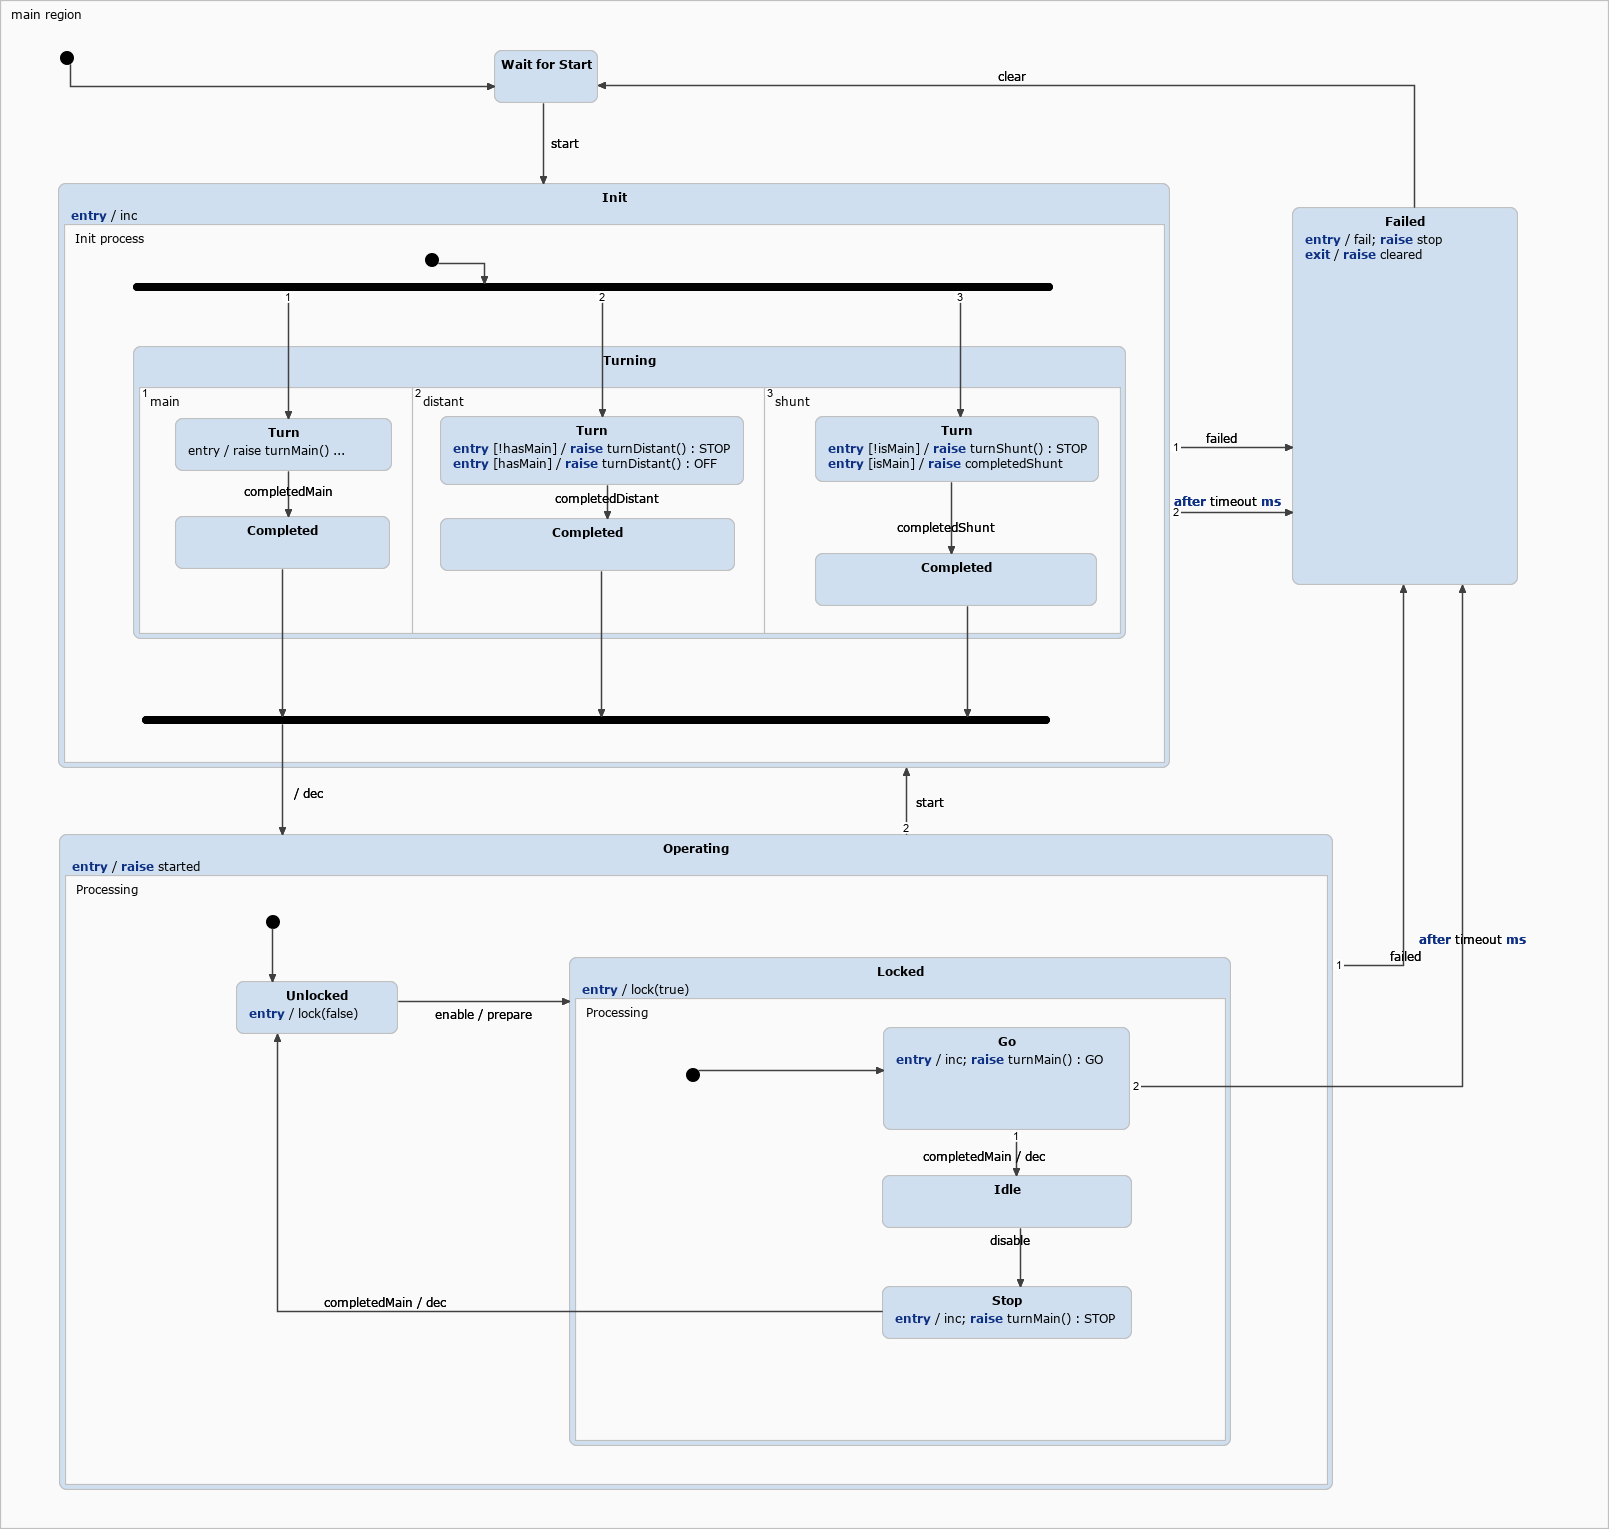
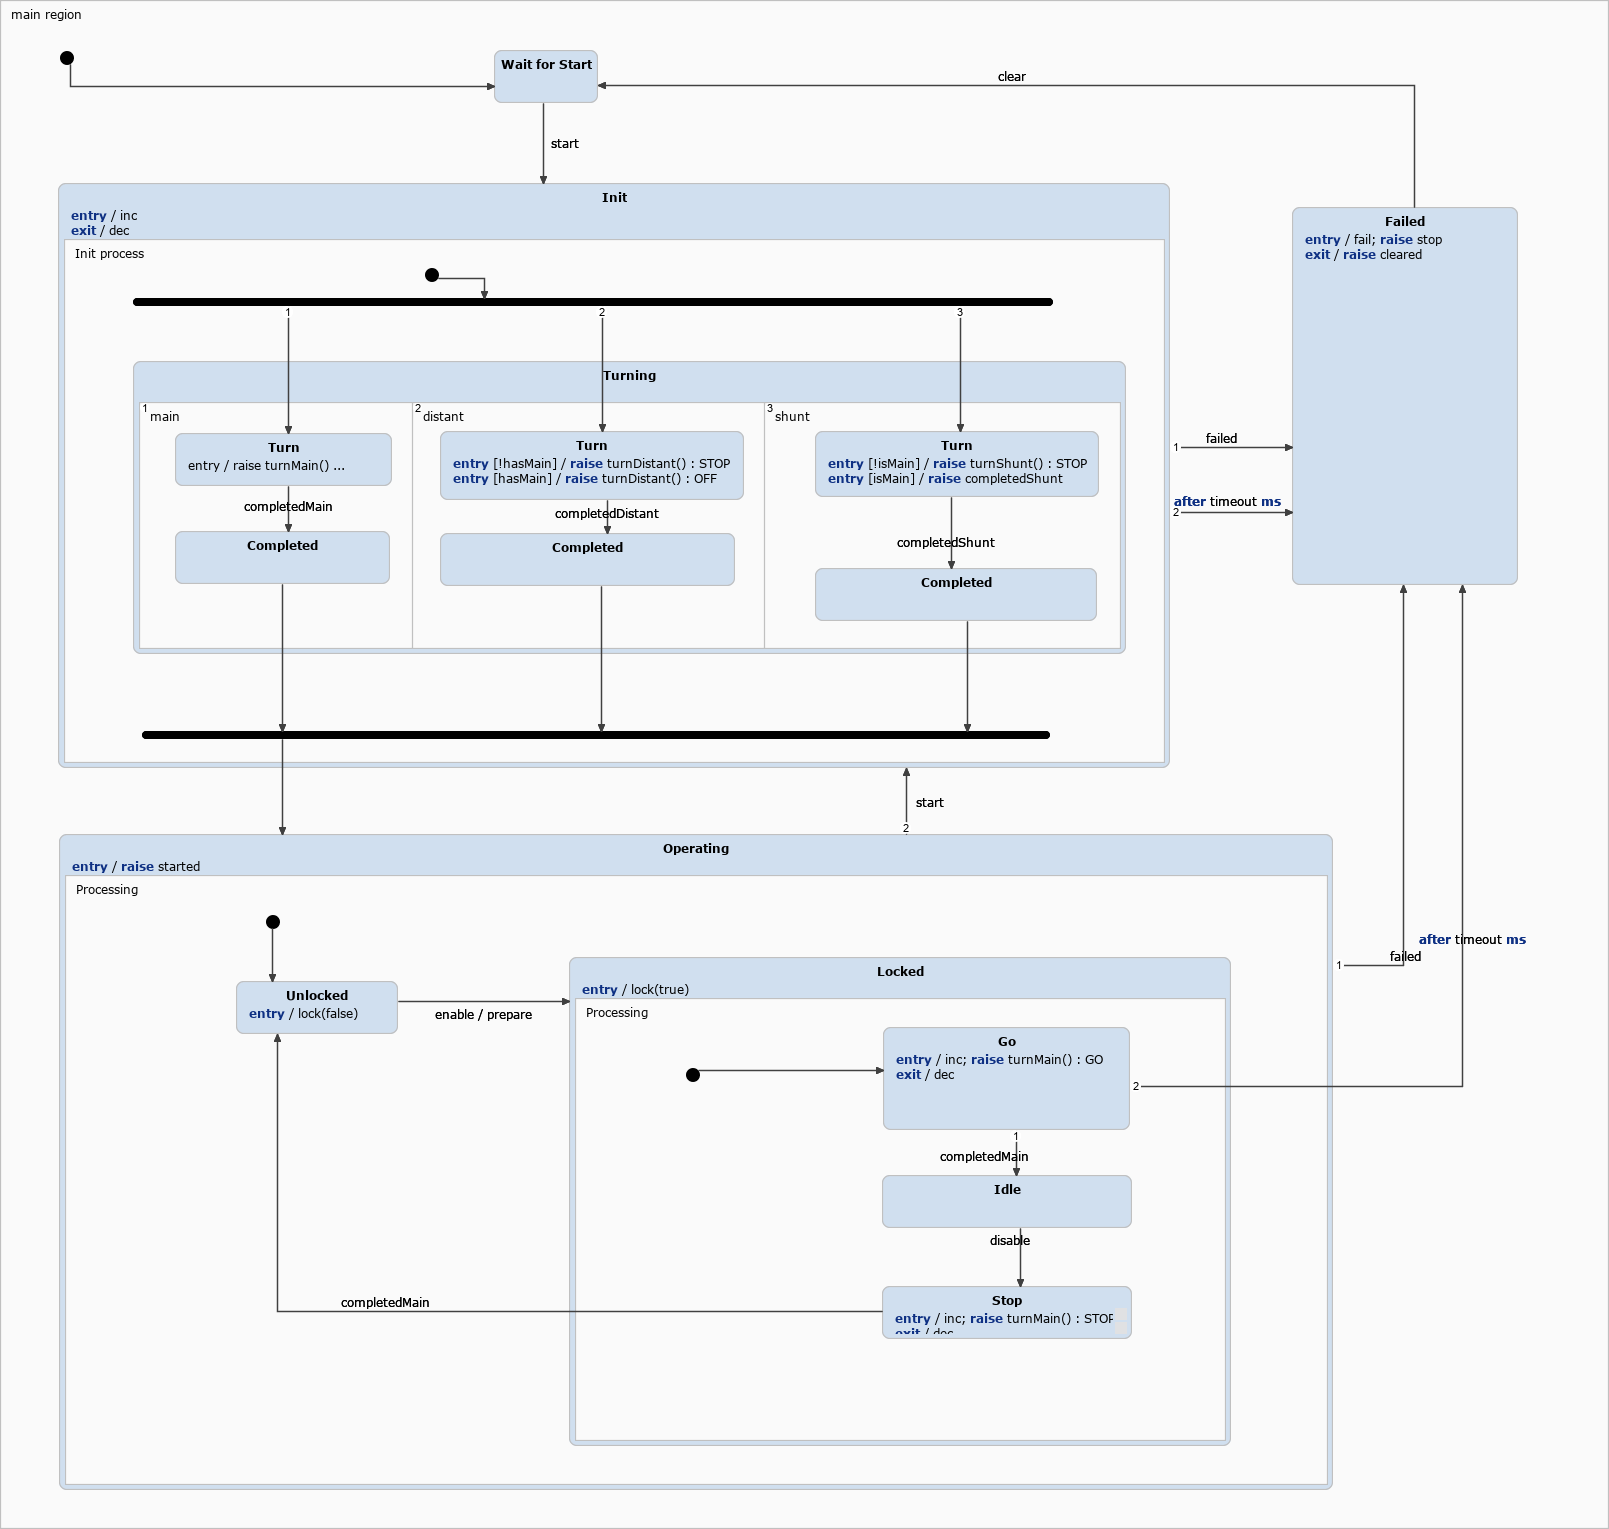
Reorganized transaction handling.

diff --git a/statecharts/SignalControllerStatechart.cpp b/statecharts/SignalControllerStatechart.cpp
@@ -488,6 +488,7 @@ namespace mrw
 		{
 			/* Exit action for state 'Init'. */
 			timerService->unsetTimer(this, 0);
+			ifaceOperationCallback->dec();
 		}
 
 		/* Exit action for state 'Go'. */
@@ -495,6 +496,14 @@ namespace mrw
 		{
 			/* Exit action for state 'Go'. */
 			timerService->unsetTimer(this, 1);
+			ifaceOperationCallback->dec();
+		}
+
+		/* Exit action for state 'Stop'. */
+		void SignalControllerStatechart::exact_main_region_Operating_Processing_Locked_Processing_Stop()
+		{
+			/* Exit action for state 'Stop'. */
+			ifaceOperationCallback->dec();
 		}
 
 		/* Exit action for state 'Failed'. */
@@ -789,6 +798,7 @@ namespace mrw
 			/* Default exit sequence for state Stop */
 			stateConfVector[0] = mrw::statechart::SignalControllerStatechart::State::NO_STATE;
 			stateConfVectorPosition = 0;
+			exact_main_region_Operating_Processing_Locked_Processing_Stop();
 		}
 
 		/* Default exit sequence for state Failed */
@@ -1118,7 +1128,6 @@ namespace mrw
 		{
 			/* The reactions of state null. */
 			exseq_main_region_Init();
-			ifaceOperationCallback->dec();
 			enseq_main_region_Operating_default();
 			react(0);
 		}
@@ -1385,7 +1394,6 @@ namespace mrw
 				if (completedMain_raised)
 				{
 					exseq_main_region_Operating_Processing_Locked_Processing_Go();
-					ifaceOperationCallback->dec();
 					enseq_main_region_Operating_Processing_Locked_Processing_Idle_default();
 					main_region_Operating_Processing_Locked_react(0);
 					transitioned_after = 0;
@@ -1441,7 +1449,6 @@ namespace mrw
 				if (completedMain_raised)
 				{
 					exseq_main_region_Operating_Processing_Locked();
-					ifaceOperationCallback->dec();
 					enseq_main_region_Operating_Processing_Unlocked_default();
 					main_region_Operating_react(0);
 					transitioned_after = 0;

diff --git a/statecharts/SectionStatechart.cpp b/statecharts/SectionStatechart.cpp
@@ -497,6 +497,7 @@ namespace mrw
 		{
 			/* Exit action for state 'Waiting'. */
 			timerService->unsetTimer(this, 1);
+			ifaceOperationCallback->dec();
 		}
 
 		/* Exit action for state 'Enabling'. */
@@ -1508,7 +1509,6 @@ namespace mrw
 				if (relaisResponse_raised)
 				{
 					exseq_main_region_Operating_Processing_Locked_Route_active_Waiting();
-					ifaceOperationCallback->dec();
 					emit left();
 					react_main_region_Operating_Processing_Locked_Route_active__choice_0();
 					transitioned_after = 0;
@@ -1531,7 +1531,6 @@ namespace mrw
 				if (relaisResponse_raised)
 				{
 					exseq_main_region_Operating_Processing_Locked();
-					ifaceOperationCallback->dec();
 					enseq_main_region_Operating_Processing_Unlocked_default();
 					main_region_Operating_react(0);
 					transitioned_after = 0;
@@ -1554,7 +1553,6 @@ namespace mrw
 				if (relaisResponse_raised)
 				{
 					exseq_main_region_Operating_Processing_Locked_Route_active_Waiting();
-					ifaceOperationCallback->dec();
 					enseq_main_region_Operating_Processing_Locked_Route_active_Enabled_default();
 					main_region_Operating_Processing_Locked_react(0);
 					transitioned_after = 0;

diff --git a/statecharts/SignalControllerStatechart.h b/statecharts/SignalControllerStatechart.h
@@ -309,6 +309,7 @@ namespace mrw
 			void enact_main_region_Failed();
 			void exact_main_region_Init();
 			void exact_main_region_Operating_Processing_Locked_Processing_Go();
+			void exact_main_region_Operating_Processing_Locked_Processing_Stop();
 			void exact_main_region_Failed();
 			void enseq_main_region_Wait_for_Start_default();
 			void enseq_main_region_Init_default();
